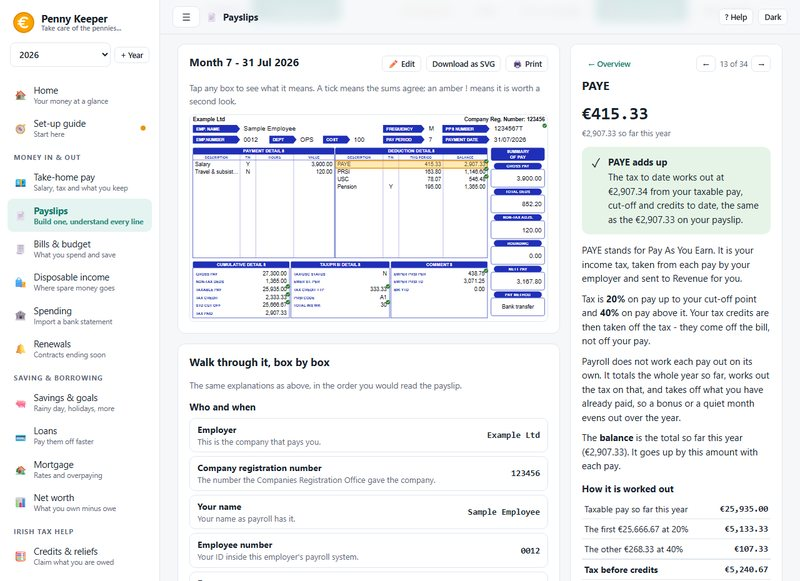
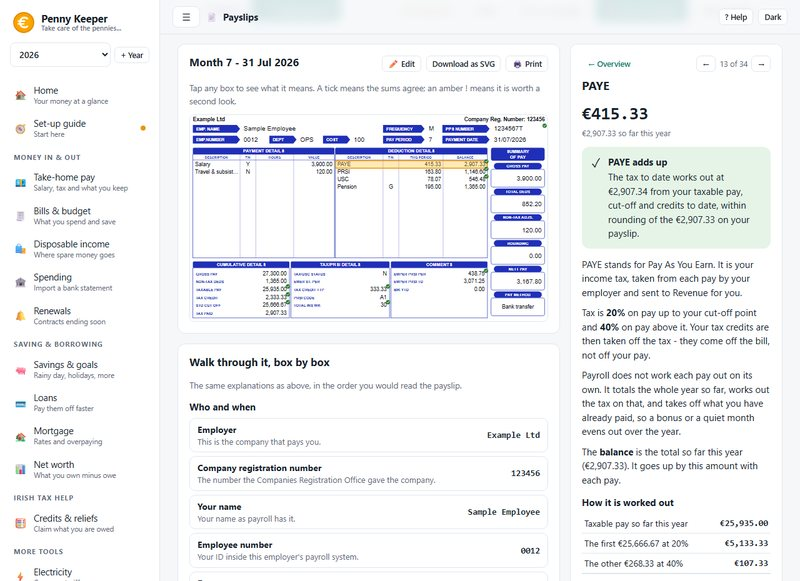
Payslips: move to More tools, explain the G in the deductions T/N column
- The menu entry moves from Money in & out to More tools (README too).
- On the Sage layout a pre-tax deduction (pension, AVC) now prints G in the
  T/N column, other optional after-tax deductions print N, and PAYE, PRSI and
  USC stay blank. Sage's own set-up help lists the deduction types as Gross
  and Nett but not what the printed column shows, so the explanations say
  "most likely" and point to payroll.
- Pension, AVC and other deduction panels, the form hints and the glossary
  explain G and N; a test covers the codes and the wording.
- Refreshed the payslip screenshots.

diff --git a/index.html b/index.html
@@ -2474,6 +2474,10 @@ const PS_DED_KINDS = {
   union:  {label:'Union subscription',      desc:'Union subs',       pre:false},
   other:  {label:'Other deduction',         desc:'Other deduction',  pre:false}
 };
+/* The T/N column of a deduction as the Sage layout prints it: G for one taken from gross pay (before income tax), N for one taken from nett pay,
+   and nothing for the three statutory ones. Sage's own set-up help lists the types as Gross and Nett; it does not say what the printed column shows, so the
+   explanations hedge. */
+const psDedCode = x => x.pre ? 'G' : (x.kind === 'paye' || x.kind === 'prsi' || x.kind === 'usc') ? '' : 'N';
 const PS_BASES = {cumulative:'Cumulative', week1:'Week 1 / Month 1', emergency:'Emergency'};
 const PS_USC_MODES = {ordinary:'Ordinary rates', reduced:'Reduced rates (medical card or aged 70+)', exempt:'Exempt (income under 13,000)'};
 const PS_METHODS = ['Bank transfer', 'Cheque', 'Cash'];
@@ -3061,7 +3065,10 @@ function psExplainDeduction(p, c, mine, key, T){
   const M = fmt, pr = r => String(+(r * 100).toFixed(2)) + '%', a = num(x.amount), y = num(x.ytd), n = c.n, no = c.no;
   const b = presetFor(c.year), R = psPrsiRates(c.date);
   const out = {value:M(a), sub:y > 0 ? M(y) + ' so far this year' : '', say:[], how:[], tip:''};
-  const timing = x.pre ? 'It comes off **before** income tax is worked out (the Y in the T/N column), so it lowers your taxable pay.' : 'It comes off **after** tax has been worked out, so it does not change your tax.';
+  const timing = x.pre ? 'It comes off **before** income tax is worked out, so it lowers your taxable pay.' : 'It comes off **after** tax has been worked out, so it does not change your tax.';
+  /* what the T/N column on the Sage layout is saying about this line */
+  const code = x.pre ? '**G** in the T/N column most likely means **Gross**. Sage lets a deduction be taken from your gross pay (before income tax) or from your nett pay (after tax, PRSI and USC, shown as **N**), and a pension is normally set up as the Gross kind. Sage does not publish what the column shows on the printed payslip, so if you are not sure, ask payroll.'
+    : psDedCode(x) === 'N' ? 'An **N** in the T/N column most likely means **Nett**: taken from your pay after tax, PRSI and USC, so it does not change them. A **G** would mean it came off your gross pay instead. Sage does not publish what the column shows on the printed payslip, so ask payroll if you are not sure.' : '';
 
   if(x.kind === 'paye'){
     const taxableTD = num(p.cum.taxable) || (num(p.cum.gross) - num(p.cum.nonTaxDeds)), cut = num(p.cum.cutoff), cred = num(p.cum.credit);
@@ -3108,20 +3115,20 @@ function psExplainDeduction(p, c, mine, key, T){
     out.how = [['This pay', M(a)], ['× pays a year', String(n)], ['= LPT over a full year', M(a * n), 'sum']];
     out.tip = 'You can change how you pay LPT, or stop the payroll deduction, with Revenue - not with your employer.';
   } else if(x.kind === 'pension'){
-    out.say = ['Your own contribution to a workplace pension. ' + timing, 'Because it comes off before tax, you get income tax relief at your highest rate. It does **not** reduce USC or PRSI, which are still worked out on your full gross pay.'];
+    out.say = ['Your own contribution to a workplace pension. ' + timing, code, 'Because it comes off before tax, you get income tax relief at your highest rate. It does **not** reduce USC or PRSI, which are still worked out on your full gross pay.'].filter(Boolean);
     out.how = c.gross > 0 ? [['Your contribution', M(a)], ['As a share of gross pay', pr(a / c.gross)], ['Taxable pay falls from', M(c.gross) + ' to ' + M(c.taxablePay)]] : [];
     out.tip = 'Because of the tax relief, putting 100 into a pension costs you only about 80 if you pay tax at 20%, or 60 if some of it would be taxed at 40%.';
   } else if(x.kind === 'avc'){
-    out.say = ['An Additional Voluntary Contribution is extra money you choose to put into a pension through your pay. ' + timing, 'You get the same tax relief as for a normal pension contribution, but not on USC or PRSI.'];
+    out.say = ['An Additional Voluntary Contribution is extra money you choose to put into a pension through your pay. ' + timing, code, 'You get the same tax relief as for a normal pension contribution, but not on USC or PRSI.'].filter(Boolean);
     out.how = c.gross > 0 ? [['Your AVC', M(a)], ['As a share of gross pay', pr(a / c.gross)]] : [];
     out.tip = 'Tax relief is limited by your age, from 15% of your earnings under 30 up to 40% from 60, and applies to earnings up to 115,000.';
   } else if(x.kind === 'health'){
-    out.say = ['Your health insurance premium, taken from your pay. ' + timing, 'Tax relief (20%, on up to 1,000 for an adult and 500 for a child) is normally given by the insurer, which charges you a lower premium, so you do not claim it again.'];
+    out.say = ['Your health insurance premium, taken from your pay. ' + timing, 'Tax relief (20%, on up to 1,000 for an adult and 500 for a child) is normally given by the insurer, which charges you a lower premium, so you do not claim it again.', code].filter(Boolean);
     out.tip = 'If your employer pays part of your premium, that part is a benefit in kind and shows on the payments side instead.';
   } else if(x.kind === 'union'){
-    out.say = ['A subscription to your trade union, taken from your pay. ' + timing];
+    out.say = ['A subscription to your trade union, taken from your pay. ' + timing, code].filter(Boolean);
   } else {
-    out.say = ['A deduction your employer makes because you agreed to it or the law says so - a savings or credit union scheme, a uniform, parking, a loan repayment. ' + timing];
+    out.say = ['A deduction your employer makes because you agreed to it or the law says so - a savings or credit union scheme, a uniform, parking, a loan repayment. ' + timing, code].filter(Boolean);
   }
   out.say.push('The **balance** is the total so far this year (' + M(y) + '). It goes up by this amount with each pay.');
   if(!(y > 0)) out.say.pop();
@@ -3668,6 +3675,7 @@ const TERMS = [
   ['PRSI','Pay Related Social Insurance. A contribution that builds your entitlement to social welfare benefits and the State pension.'],
   ['USC','Universal Social Charge. A separate charge on your gross income, on top of income tax. Lower earners pay it at lower rates.'],
   ['Standard rate band','The slice of income taxed at 20%. Income above it is taxed at 40%. Also called the standard rate cut-off point.'],
+  ['G / N in the T/N column','On a Sage payslip, the T/N column of the deductions box marks how a deduction is taken. G most likely means Gross: taken from your gross pay, before income tax, which is how a pension is usually set up. N most likely means Nett: taken after tax, PRSI and USC. Sage does not publish what the printed column shows, so ask payroll if you are unsure.'],
   ['Cut-off point','Another name for the standard rate band: the amount of pay taxed at 20% before the 40% rate starts. It is on your Tax Credit Certificate, and your payslip may show it for the pay and for the year so far.'],
   ['Cumulative basis','The normal way PAYE is worked out: each payslip adds up your whole year so far and takes off the tax already paid, so a missed or extra week evens itself out. The other ways are Week 1 / Month 1 and emergency.'],
   ['Week 1 / Month 1','A way of working out PAYE where each payslip stands alone, with no memory of earlier pay. It is used when Revenue has told your employer to, or when your details are not yet on file.'],
@@ -3908,7 +3916,6 @@ const NAV = [
   {items:[['dashboard','🏠','Home','Your money at a glance'], ['setup','🧭','Set-up guide','Start here']]},
   {title:'Money in & out', items:[
     ['tax','💶','Take-home pay','Salary, tax and what you keep'],
-    ['payslip','📄','Payslips','Build one, understand every line'],
     ['budget','🧾','Bills & budget','What you spend and save'],
     ['disposable','🛍','Disposable income','Where spare money goes'],
     ['bank','🏦','Spending','Import a bank statement'],
@@ -3924,7 +3931,8 @@ const NAV = [
     ['history','📈','Bill history','What bills really cost'],
     ['accounts','🗂','Accounts & payees','Bank details in one place'],
     ['maternity','👶','Maternity leave','Plan the cash flow'],
-    ['tracker','🏗','Budget tracker','Renovation, wedding, build']]},
+    ['tracker','🏗','Budget tracker','Renovation, wedding, build'],
+    ['payslip','📄','Payslips','Build one, understand every line']]},
   {items:[['data','💾','Backup & settings','Back up, restore, export']]}
 ];
 const ALL_TABS = NAV.flatMap(g=>g.items);
@@ -7998,7 +8006,7 @@ function psDrawSage(g, p, c){
   });
   p.deductions.slice(0, fit).forEach((x, i)=>{
     g.text(412, base(i), psClip(x.desc, 17));
-    g.text(562, base(i), x.pre ? 'Y' : '', 'qv', 'middle');
+    g.text(562, base(i), psDedCode(x), 'qv', 'middle');
     g.text(702, base(i), psN(x.amount), 'qv', 'end');
     g.text(826, base(i), num(x.ytd) ? psN(x.ytd) : '', 'qv', 'end');
     g.hot('ded:' + x.id, 407, rowY(i), 424, lh, (x.desc || 'Deduction') + ': ' + psN(x.amount));
@@ -8333,7 +8341,7 @@ function psBuildHtml(d, c, checks){
       <div class="a" data-label="Type"><select data-psp="deductions.${i}.kind" data-t="kind" data-list="deductions" aria-label="Type">${Object.keys(PS_DED_KINDS).map(k=>`<option value="${k}" ${k === x.kind ? 'selected' : ''}>${esc(PS_DED_KINDS[k].label)}</option>`).join('')}</select></div>
       <div class="a" data-label="This pay"><input class="num" style="text-align:right" inputmode="decimal" data-psp="deductions.${i}.amount" data-t="n" data-fk="ded:${x.id}" value="${num(x.amount) || ''}" placeholder="0.00" aria-label="This pay"></div>
       <div class="a" data-label="Year to date"><input class="num" style="text-align:right" inputmode="decimal" data-psp="deductions.${i}.ytd" data-t="n" value="${num(x.ytd) || ''}" placeholder="0.00" aria-label="Year to date"></div>
-      <label class="ps-chk" title="Does it come off before tax is worked out? This is the Y/N column"><input type="checkbox" data-psp="deductions.${i}.pre" data-t="b" ${x.pre ? 'checked' : ''}> Before tax</label>
+      <label class="ps-chk" title="Does it come off before income tax is worked out? On the Sage layout this prints as G (Gross) in the T/N column; other deductions print N"><input type="checkbox" data-psp="deductions.${i}.pre" data-t="b" ${x.pre ? 'checked' : ''}> Before tax (G)</label>
       <button class="btn sm danger" data-psact="delded" data-arg="${esc(x.id)}" aria-label="Remove this deduction">x</button></div>`).join('');
 
   return `<div class="ps-build">
@@ -8363,7 +8371,7 @@ function psBuildHtml(d, c, checks){
       <div class="chips" style="margin-top:10px">${[['basic', 'Salary'], ['overtime', 'Overtime'], ['bonus', 'Bonus'], ['allowance', 'Allowance'], ['expense', 'Expenses'], ['bik', 'Benefit in kind']].map(([k, t])=>`<button class="chip" data-psact="addpay" data-arg="${k}">+ ${t}</button>`).join('')}</div>
     </div>
     <div class="card">
-      ${cardHead('4. What came off', 'One line for each deduction. The year-to-date figure is the "balance" column.')}
+      ${cardHead('4. What came off', 'One line for each deduction. The year-to-date figure is the "balance" column. Tick <b>Before tax</b> for a pension or AVC: the Sage layout prints it as a <b>G</b> (Gross) in the T/N column.')}
       ${dedRows}
       <div class="chips" style="margin-top:10px">${[['paye', 'PAYE'], ['prsi', 'PRSI'], ['usc', 'USC'], ['pension', 'Pension'], ['avc', 'AVC'], ['health', 'Health insurance'], ['lpt', 'LPT'], ['union', 'Union'], ['other', 'Other']].map(([k, t])=>`<button class="chip" data-psact="addded" data-arg="${k}">+ ${t}</button>`).join('')}</div>
     </div>

diff --git a/src/engine/53-payslip-explain.js b/src/engine/53-payslip-explain.js
@@ -202,7 +202,10 @@ function psExplainDeduction(p, c, mine, key, T){
   const M = fmt, pr = r => String(+(r * 100).toFixed(2)) + '%', a = num(x.amount), y = num(x.ytd), n = c.n, no = c.no;
   const b = presetFor(c.year), R = psPrsiRates(c.date);
   const out = {value:M(a), sub:y > 0 ? M(y) + ' so far this year' : '', say:[], how:[], tip:''};
-  const timing = x.pre ? 'It comes off **before** income tax is worked out (the Y in the T/N column), so it lowers your taxable pay.' : 'It comes off **after** tax has been worked out, so it does not change your tax.';
+  const timing = x.pre ? 'It comes off **before** income tax is worked out, so it lowers your taxable pay.' : 'It comes off **after** tax has been worked out, so it does not change your tax.';
+  /* what the T/N column on the Sage layout is saying about this line */
+  const code = x.pre ? '**G** in the T/N column most likely means **Gross**. Sage lets a deduction be taken from your gross pay (before income tax) or from your nett pay (after tax, PRSI and USC, shown as **N**), and a pension is normally set up as the Gross kind. Sage does not publish what the column shows on the printed payslip, so if you are not sure, ask payroll.'
+    : psDedCode(x) === 'N' ? 'An **N** in the T/N column most likely means **Nett**: taken from your pay after tax, PRSI and USC, so it does not change them. A **G** would mean it came off your gross pay instead. Sage does not publish what the column shows on the printed payslip, so ask payroll if you are not sure.' : '';
 
   if(x.kind === 'paye'){
     const taxableTD = num(p.cum.taxable) || (num(p.cum.gross) - num(p.cum.nonTaxDeds)), cut = num(p.cum.cutoff), cred = num(p.cum.credit);
@@ -249,20 +252,20 @@ function psExplainDeduction(p, c, mine, key, T){
     out.how = [['This pay', M(a)], ['× pays a year', String(n)], ['= LPT over a full year', M(a * n), 'sum']];
     out.tip = 'You can change how you pay LPT, or stop the payroll deduction, with Revenue - not with your employer.';
   } else if(x.kind === 'pension'){
-    out.say = ['Your own contribution to a workplace pension. ' + timing, 'Because it comes off before tax, you get income tax relief at your highest rate. It does **not** reduce USC or PRSI, which are still worked out on your full gross pay.'];
+    out.say = ['Your own contribution to a workplace pension. ' + timing, code, 'Because it comes off before tax, you get income tax relief at your highest rate. It does **not** reduce USC or PRSI, which are still worked out on your full gross pay.'].filter(Boolean);
     out.how = c.gross > 0 ? [['Your contribution', M(a)], ['As a share of gross pay', pr(a / c.gross)], ['Taxable pay falls from', M(c.gross) + ' to ' + M(c.taxablePay)]] : [];
     out.tip = 'Because of the tax relief, putting 100 into a pension costs you only about 80 if you pay tax at 20%, or 60 if some of it would be taxed at 40%.';
   } else if(x.kind === 'avc'){
-    out.say = ['An Additional Voluntary Contribution is extra money you choose to put into a pension through your pay. ' + timing, 'You get the same tax relief as for a normal pension contribution, but not on USC or PRSI.'];
+    out.say = ['An Additional Voluntary Contribution is extra money you choose to put into a pension through your pay. ' + timing, code, 'You get the same tax relief as for a normal pension contribution, but not on USC or PRSI.'].filter(Boolean);
     out.how = c.gross > 0 ? [['Your AVC', M(a)], ['As a share of gross pay', pr(a / c.gross)]] : [];
     out.tip = 'Tax relief is limited by your age, from 15% of your earnings under 30 up to 40% from 60, and applies to earnings up to 115,000.';
   } else if(x.kind === 'health'){
-    out.say = ['Your health insurance premium, taken from your pay. ' + timing, 'Tax relief (20%, on up to 1,000 for an adult and 500 for a child) is normally given by the insurer, which charges you a lower premium, so you do not claim it again.'];
+    out.say = ['Your health insurance premium, taken from your pay. ' + timing, 'Tax relief (20%, on up to 1,000 for an adult and 500 for a child) is normally given by the insurer, which charges you a lower premium, so you do not claim it again.', code].filter(Boolean);
     out.tip = 'If your employer pays part of your premium, that part is a benefit in kind and shows on the payments side instead.';
   } else if(x.kind === 'union'){
-    out.say = ['A subscription to your trade union, taken from your pay. ' + timing];
+    out.say = ['A subscription to your trade union, taken from your pay. ' + timing, code].filter(Boolean);
   } else {
-    out.say = ['A deduction your employer makes because you agreed to it or the law says so - a savings or credit union scheme, a uniform, parking, a loan repayment. ' + timing];
+    out.say = ['A deduction your employer makes because you agreed to it or the law says so - a savings or credit union scheme, a uniform, parking, a loan repayment. ' + timing, code].filter(Boolean);
   }
   out.say.push('The **balance** is the total so far this year (' + M(y) + '). It goes up by this amount with each pay.');
   if(!(y > 0)) out.say.pop();

diff --git a/src/ui/96-payslip-page.js b/src/ui/96-payslip-page.js
@@ -136,7 +136,7 @@ function psBuildHtml(d, c, checks){
       <div class="a" data-label="Type"><select data-psp="deductions.${i}.kind" data-t="kind" data-list="deductions" aria-label="Type">${Object.keys(PS_DED_KINDS).map(k=>`<option value="${k}" ${k === x.kind ? 'selected' : ''}>${esc(PS_DED_KINDS[k].label)}</option>`).join('')}</select></div>
       <div class="a" data-label="This pay"><input class="num" style="text-align:right" inputmode="decimal" data-psp="deductions.${i}.amount" data-t="n" data-fk="ded:${x.id}" value="${num(x.amount) || ''}" placeholder="0.00" aria-label="This pay"></div>
       <div class="a" data-label="Year to date"><input class="num" style="text-align:right" inputmode="decimal" data-psp="deductions.${i}.ytd" data-t="n" value="${num(x.ytd) || ''}" placeholder="0.00" aria-label="Year to date"></div>
-      <label class="ps-chk" title="Does it come off before tax is worked out? This is the Y/N column"><input type="checkbox" data-psp="deductions.${i}.pre" data-t="b" ${x.pre ? 'checked' : ''}> Before tax</label>
+      <label class="ps-chk" title="Does it come off before income tax is worked out? On the Sage layout this prints as G (Gross) in the T/N column; other deductions print N"><input type="checkbox" data-psp="deductions.${i}.pre" data-t="b" ${x.pre ? 'checked' : ''}> Before tax (G)</label>
       <button class="btn sm danger" data-psact="delded" data-arg="${esc(x.id)}" aria-label="Remove this deduction">x</button></div>`).join('');
 
   return `<div class="ps-build">
@@ -166,7 +166,7 @@ function psBuildHtml(d, c, checks){
       <div class="chips" style="margin-top:10px">${[['basic', 'Salary'], ['overtime', 'Overtime'], ['bonus', 'Bonus'], ['allowance', 'Allowance'], ['expense', 'Expenses'], ['bik', 'Benefit in kind']].map(([k, t])=>`<button class="chip" data-psact="addpay" data-arg="${k}">+ ${t}</button>`).join('')}</div>
     </div>
     <div class="card">
-      ${cardHead('4. What came off', 'One line for each deduction. The year-to-date figure is the "balance" column.')}
+      ${cardHead('4. What came off', 'One line for each deduction. The year-to-date figure is the "balance" column. Tick <b>Before tax</b> for a pension or AVC: the Sage layout prints it as a <b>G</b> (Gross) in the T/N column.')}
       ${dedRows}
       <div class="chips" style="margin-top:10px">${[['paye', 'PAYE'], ['prsi', 'PRSI'], ['usc', 'USC'], ['pension', 'Pension'], ['avc', 'AVC'], ['health', 'Health insurance'], ['lpt', 'LPT'], ['union', 'Union'], ['other', 'Other']].map(([k, t])=>`<button class="chip" data-psact="addded" data-arg="${k}">+ ${t}</button>`).join('')}</div>
     </div>

diff --git a/src/ui/60-guide.js b/src/ui/60-guide.js
@@ -237,6 +237,7 @@ const TERMS = [
   ['PRSI','Pay Related Social Insurance. A contribution that builds your entitlement to social welfare benefits and the State pension.'],
   ['USC','Universal Social Charge. A separate charge on your gross income, on top of income tax. Lower earners pay it at lower rates.'],
   ['Standard rate band','The slice of income taxed at 20%. Income above it is taxed at 40%. Also called the standard rate cut-off point.'],
+  ['G / N in the T/N column','On a Sage payslip, the T/N column of the deductions box marks how a deduction is taken. G most likely means Gross: taken from your gross pay, before income tax, which is how a pension is usually set up. N most likely means Nett: taken after tax, PRSI and USC. Sage does not publish what the printed column shows, so ask payroll if you are unsure.'],
   ['Cut-off point','Another name for the standard rate band: the amount of pay taxed at 20% before the 40% rate starts. It is on your Tax Credit Certificate, and your payslip may show it for the pay and for the year so far.'],
   ['Cumulative basis','The normal way PAYE is worked out: each payslip adds up your whole year so far and takes off the tax already paid, so a missed or extra week evens itself out. The other ways are Week 1 / Month 1 and emergency.'],
   ['Week 1 / Month 1','A way of working out PAYE where each payslip stands alone, with no memory of earlier pay. It is used when Revenue has told your employer to, or when your details are not yet on file.'],

diff --git a/tests/maths.test.js b/tests/maths.test.js
@@ -611,6 +611,18 @@ function runMathsTests(){
     const row = psCompare(c, psCalc(q)).find(r => r.label === 'Gross pay');
     same([row.before, row.after, row.diff], [3900, 4000, 100]);
   });
+  test('payslip: a pre-tax deduction prints as G, optional after-tax ones as N, and the statutory three as nothing', () => {
+    const code = k => psDedCode(psNewDed(k, 10));
+    same(['pension', 'avc'].map(code), ['G', 'G']);
+    same(['health', 'union', 'lpt', 'other'].map(code), ['N', 'N', 'N', 'N']);
+    same(['paye', 'prsi', 'usc'].map(code), ['', '', '']);
+    const p = psExample(), c = psCalc(p), ck = psChecks(p, c), pen = p.deductions.find(x => x.kind === 'pension');
+    const e = psExplain(p, c, ck, 'ded:' + pen.id), txt = e.say.join(' ');
+    if(!/\*\*G\*\* in the T\/N column most likely means \*\*Gross\*\*/.test(txt)) throw new Error('pension should explain the G: ' + txt);
+    if(/\bY in the T\/N/.test(txt)) throw new Error('should not mention Y: ' + txt);
+    pen.pre = false;
+    if(!/\*\*N\*\*/.test(psExplain(p, psCalc(p), ck, 'ded:' + pen.id).say.join(' '))) throw new Error('an after-tax pension should explain the N');
+  });
   test('payslip: the spreadsheet export has one line per payslip, oldest first', () => {
     const a = psExample(), b = psNextFrom(a), rows = psCsvRows([b, a]);
     same(rows.length, 3); same([rows[1][0], rows[2][0]], ['2026-07-31', '2026-08-31']);

diff --git a/src/ui/70-shell.js b/src/ui/70-shell.js
@@ -3,7 +3,6 @@ const NAV = [
   {items:[['dashboard','🏠','Home','Your money at a glance'], ['setup','🧭','Set-up guide','Start here']]},
   {title:'Money in & out', items:[
     ['tax','💶','Take-home pay','Salary, tax and what you keep'],
-    ['payslip','📄','Payslips','Build one, understand every line'],
     ['budget','🧾','Bills & budget','What you spend and save'],
     ['disposable','🛍','Disposable income','Where spare money goes'],
     ['bank','🏦','Spending','Import a bank statement'],
@@ -19,7 +18,8 @@ const NAV = [
     ['history','📈','Bill history','What bills really cost'],
     ['accounts','🗂','Accounts & payees','Bank details in one place'],
     ['maternity','👶','Maternity leave','Plan the cash flow'],
-    ['tracker','🏗','Budget tracker','Renovation, wedding, build']]},
+    ['tracker','🏗','Budget tracker','Renovation, wedding, build'],
+    ['payslip','📄','Payslips','Build one, understand every line']]},
   {items:[['data','💾','Backup & settings','Back up, restore, export']]}
 ];
 const ALL_TABS = NAV.flatMap(g=>g.items);

diff --git a/src/engine/52-payslip.js b/src/engine/52-payslip.js
@@ -49,6 +49,10 @@ const PS_DED_KINDS = {
   union:  {label:'Union subscription',      desc:'Union subs',       pre:false},
   other:  {label:'Other deduction',         desc:'Other deduction',  pre:false}
 };
+/* The T/N column of a deduction as the Sage layout prints it: G for one taken from gross pay (before income tax), N for one taken from nett pay,
+   and nothing for the three statutory ones. Sage's own set-up help lists the types as Gross and Nett; it does not say what the printed column shows, so the
+   explanations hedge. */
+const psDedCode = x => x.pre ? 'G' : (x.kind === 'paye' || x.kind === 'prsi' || x.kind === 'usc') ? '' : 'N';
 const PS_BASES = {cumulative:'Cumulative', week1:'Week 1 / Month 1', emergency:'Emergency'};
 const PS_USC_MODES = {ordinary:'Ordinary rates', reduced:'Reduced rates (medical card or aged 70+)', exempt:'Exempt (income under 13,000)'};
 const PS_METHODS = ['Bank transfer', 'Cheque', 'Cash'];

diff --git a/src/ui/95-payslip-svg.js b/src/ui/95-payslip-svg.js
@@ -107,7 +107,7 @@ function psDrawSage(g, p, c){
   });
   p.deductions.slice(0, fit).forEach((x, i)=>{
     g.text(412, base(i), psClip(x.desc, 17));
-    g.text(562, base(i), x.pre ? 'Y' : '', 'qv', 'middle');
+    g.text(562, base(i), psDedCode(x), 'qv', 'middle');
     g.text(702, base(i), psN(x.amount), 'qv', 'end');
     g.text(826, base(i), num(x.ytd) ? psN(x.ytd) : '', 'qv', 'end');
     g.hot('ded:' + x.id, 407, rowY(i), 424, lh, (x.desc || 'Deduction') + ': ' + psN(x.amount));

diff --git a/README.md b/README.md
@@ -17,11 +17,6 @@ phone or a laptop.
   standard rate band and credits for your situation (single, single parent, married, both working), pension,
   AVCs, benefit-in-kind and a bonus. A pay-rise calculator shows how much of an extra euro you keep, and
   *What Budget 2027 means for you* runs your pay through next year's figures.
-- **Payslips** - type in your payslip box by box and get a plain-English explanation of every number on it:
-  what it is, how it was worked out with your figures, and whether the sums agree. It is a builder, not a
-  scanner: nothing is read from a file. The payslip is drawn from SVG shapes in a layout you pick (the first
-  follows the Sage Payroll layout), tapping a box explains it, and you can save payslips as history, start the
-  next one with the year-to-date figures carried forward, compare with the last one, and download one as an SVG.
 - **Bills & budget** - bills at any frequency from weekly to annual, shown as weekly, monthly and yearly
   figures. Savings are kept apart from bills. Shared bills can be split three ways: by share of net income, by
   percentages you choose, or so everyone is left with the same spending money each week. A *year ahead* view
@@ -62,6 +57,11 @@ phone or a laptop.
 - **Budget tracker** - plan and track a renovation, a wedding or a build: stages and items with a budget and
   an actual cost, funding sources, a forecast, and how much is left. Files from the standalone [Budget Tracker](https://github.com/shanemc92/budget-tracker)
   import unchanged.
+- **Payslips** - type in your payslip box by box and get a plain-English explanation of every number on it:
+  what it is, how it was worked out with your figures, and whether the sums agree. It is a builder, not a
+  scanner: nothing is read from a file. The payslip is drawn from SVG shapes in a layout you pick (the first
+  follows the Sage Payroll layout), tapping a box explains it, and you can save payslips as history, start the
+  next one with the year-to-date figures carried forward, compare with the last one, and download one as an SVG.
 
 **Backup & settings** - download everything as one file and restore it, export a workbook (`.xlsx`) or CSV,
 start a new tax year with your bills carried over, or make a what-if copy of a year.
